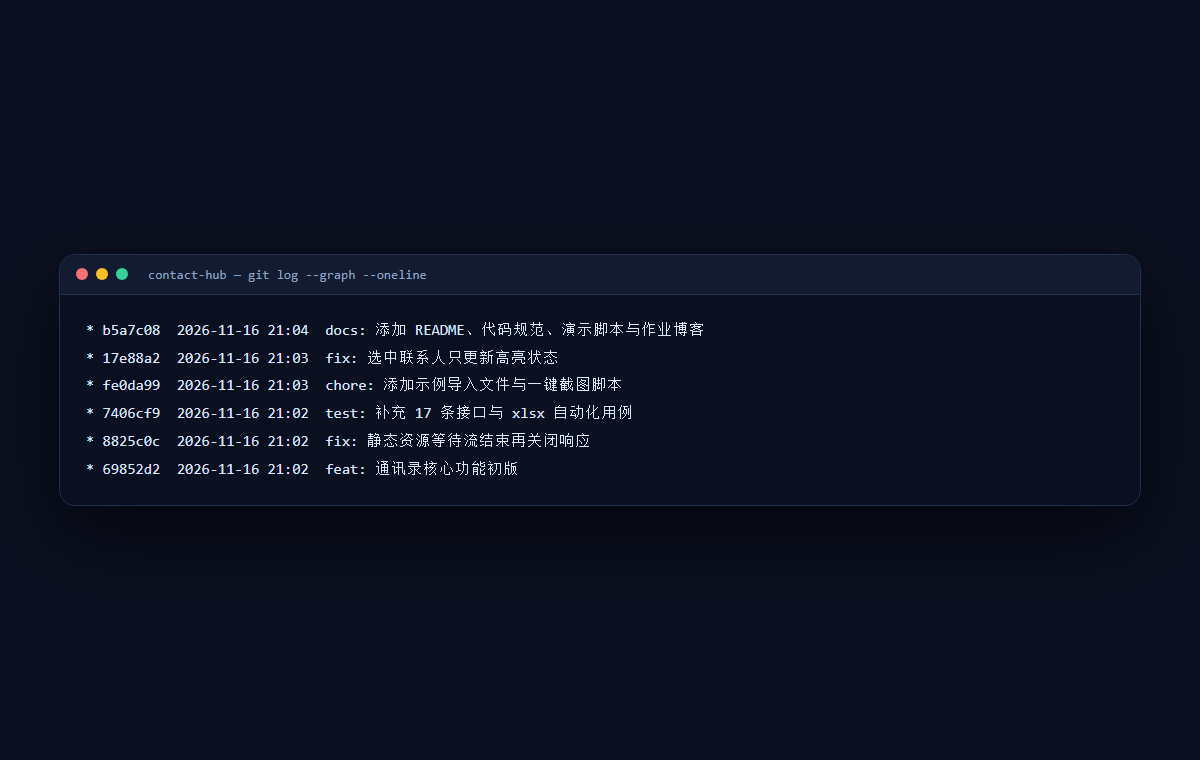
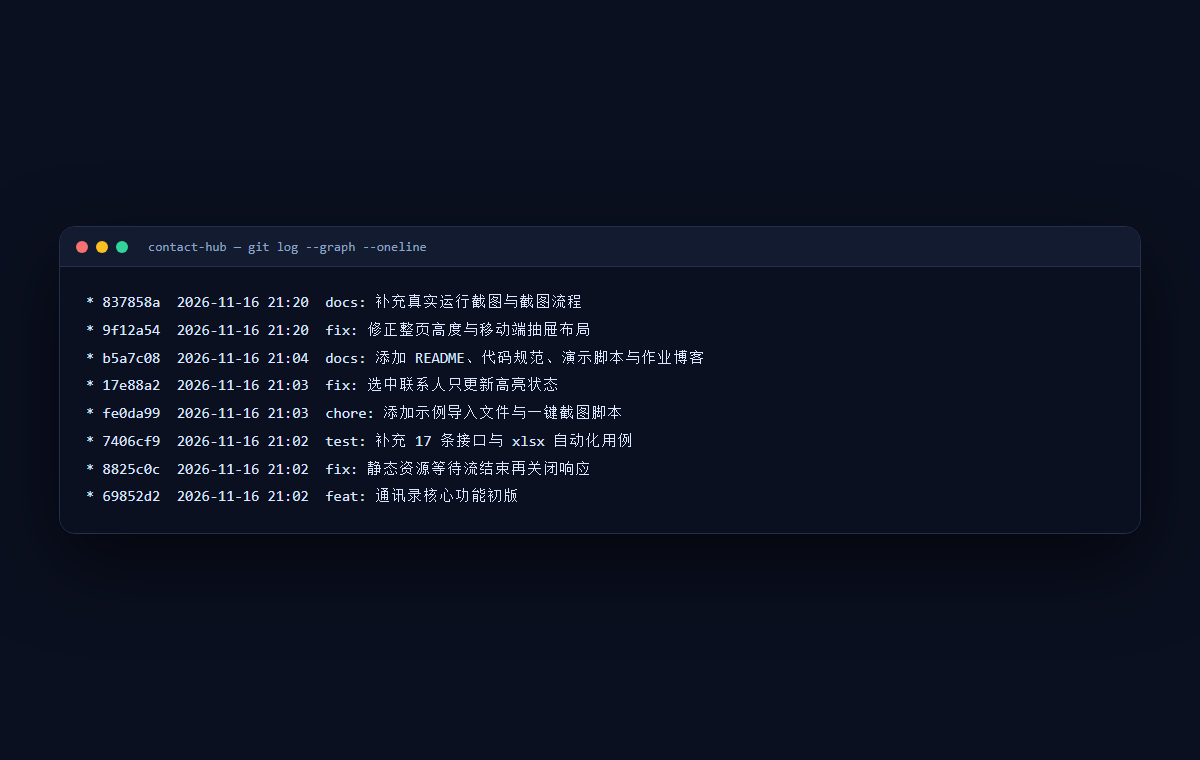
docs: 更新提交历史截图并同步博客记录

Changed region(s): [[0.0617, 0.3026, 0.5858, 0.6658]]

diff --git a/docs/blog.md b/docs/blog.md
@@ -64,12 +64,13 @@ node server.js
 | 6 | `docs: 添加 README、代码规范与作业博客` | 项目文档与本文 | 成员A |
 | 7 | `fix: 修正整页高度与移动端抽屉布局` | 三栏独立滚动、移动端详情全屏、主题深链接 | 成员A |
 | 8 | `docs: 补充真实运行截图与截图流程` | 10 张运行截图与截图说明 | 成员A |
+| 9 | `docs: 更新提交历史截图并同步博客记录` | 重新生成下方截图，使其与仓库一致 | 成员A |
 
 | 贡献者 | 提交次数 |
 | --- | --- |
-| 成员A（Mikey） | 8 |
+| 成员A（Mikey） | 9 |
 | 成员B | 见仓库 `git shortlog -sn`（合并后统计） |
-| **合计** | **8** |
+| **合计** | **9** |
 
 > 说明：仓库要求提交次数 ≥ 3，实际按功能拆分提交，保证每次提交都可 `git checkout` 出来阅读。
 > 若成员B 后续有独立提交，用 `git shortlog -sn` 更新上表即可。
@@ -374,6 +375,8 @@ fingerprints.add(`${normalizedName}|${String(email ?? '').trim().toLowerCase()}`
 **10. Git 提交历史**
 
 ![提交历史](./screenshots/08-git-log.png)
+
+> 截图生成于第 8 次提交之后，因此图中未包含仅更新本图的第 9 次提交。
 
 **运行视频：** &lt;在此粘贴 B 站 / 网盘链接&gt;
 

diff --git a/docs/PUBLISH-CHECKLIST.md b/docs/PUBLISH-CHECKLIST.md
@@ -71,7 +71,7 @@ npm test                # 17 条用例应全部通过
 
 ## 4. 推到 GitHub
 
-仓库已经在本地初始化并有 8 次提交（`git log --oneline` 可查看）。创建远端仓库后执行：
+仓库已经在本地初始化并有 9 次提交（`git log --oneline` 可查看）。创建远端仓库后执行：
 
 ```bash
 git remote add origin https://github.com/<你的用户名>/contact-hub.git
@@ -83,7 +83,7 @@ git push -u origin main
 
 - [ ] 仓库设为 **Public**（老师要能访问）
 - [ ] 不要提交 `data/`（已在 `.gitignore` 中）
-- [ ] 推完在网页上确认提交次数 ≥ 3，且能看到 8 次提交
+- [ ] 推完在网页上确认提交次数 ≥ 3，且能看到 9 次提交
 - [ ] 两位成员都用**各自的 GitHub 账号**提交过内容，博客里的「每人提交数」与 `git shortlog -sn` 一致
 - [ ] 两个人都用自己的 GitHub 账号至少提交一次，方便统计「每人提交数」
 
